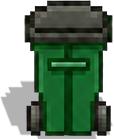
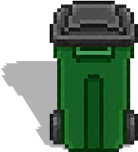
Place props by their contact point, not their canvas
The replaced bin art is 138x152 with its drop shadow occupying the left
third, so its solid body sits at x 50..137 — a centre of 94 against a
frame centre of 69. Bottom-centring the canvas, which is what props did,
stood every bin a quarter of its own width to the right of the anchor it
was placed on.

Props are now positioned by where they MEET THE GROUND: the horizontal
centre of the solid pixels in the bottom band of the sprite, and the
lowest solid row. Measured from the bottom band specifically, because
that is the part touching the ground — a lid flaring wider than the
wheels should not shift where the bin stands.

This is the general fix rather than a nudge for these two files. Any
sprite with an asymmetric shadow, or one that does not fill its frame
vertically, would have been wrong by its own particular amount, and each
would have looked like a placement bug rather than a framing difference.
Footprints are cached per bitmap, so it costs one pass per sprite per
session.

diff --git a/src/scene-compositor.ts b/src/scene-compositor.ts
@@ -155,6 +155,42 @@ function fill(r: Raster, y0: number, y1: number, c: Rgb): void {
     for (let x = 0; x < r.w; x++) r.px(x, y, c);
 }
 
+/**
+ * Where a sprite actually meets the ground, in its own pixel space.
+ *
+ * Props are placed by their contact point, not by their canvas. Those differ
+ * whenever a sprite carries an asymmetric drop shadow: the delivered bins put
+ * their shadow in the left third, so their solid body sits at x 50..137 of a
+ * 138-wide frame — centring the canvas would stand the bin a quarter of its
+ * width right of its anchor, and every future sprite with a shadow would be
+ * wrong by a different amount.
+ *
+ * Measured from the BOTTOM band of solid pixels, because that is the part
+ * touching the ground; the lid flaring wider than the wheels should not shift
+ * where the bin stands.
+ */
+const footprintCache = new WeakMap<Bitmap, { cx: number; baseY: number }>();
+function footprint(src: Bitmap): { cx: number; baseY: number } {
+  const hit = footprintCache.get(src);
+  if (hit) return hit;
+  const SOLID = 128;
+  let baseY = src.h - 1;
+  for (let y = src.h - 1; y >= 0; y--) {
+    let any = false;
+    for (let x = 0; x < src.w; x++) if (src.rgba[((y * src.w + x) << 2) + 3] >= SOLID) { any = true; break; }
+    if (any) { baseY = y; break; }
+  }
+  // Bottom eighth of the sprite's height, which is the contact band.
+  const band = Math.max(1, Math.round(src.h * 0.12));
+  let sum = 0, n = 0;
+  for (let y = Math.max(0, baseY - band); y <= baseY; y++)
+    for (let x = 0; x < src.w; x++)
+      if (src.rgba[((y * src.w + x) << 2) + 3] >= SOLID) { sum += x; n++; }
+  const res = { cx: n ? sum / n : src.w / 2, baseY };
+  footprintCache.set(src, res);
+  return res;
+}
+
 // --- Render ----------------------------------------------------------------
 
 export function renderLot(
@@ -233,10 +269,15 @@ export function renderLot(
     const s = L.scale * (p.scale ?? 1);
     const w = Math.max(1, Math.round(spr.w * s));
     const h = Math.max(1, Math.round(spr.h * s));
-    // Anchors mark where a prop MEETS THE GROUND, so sprites are bottom-aligned
-    // vertically; horizontally they follow p.align.
-    const ax = p.align === 'left' ? a.x : p.align === 'right' ? a.x - w : a.x - w / 2;
-    blitScaled(r, spr, Math.round(ax), Math.round(a.y - h), w, h, false);
+    // An anchor marks where the prop MEETS THE GROUND, so the sprite is placed
+    // by its contact point rather than by its canvas — see footprint().
+    const fp = footprint(spr);
+    const ax =
+      p.align === 'left' ? a.x
+      : p.align === 'right' ? a.x - w
+      : a.x - fp.cx * s;
+    const ay = a.y - (fp.baseY + 1) * s;
+    blitScaled(r, spr, Math.round(ax), Math.round(ay), w, h, false);
   }
 
   return { raster: r, objects, byKey, layout: L };
